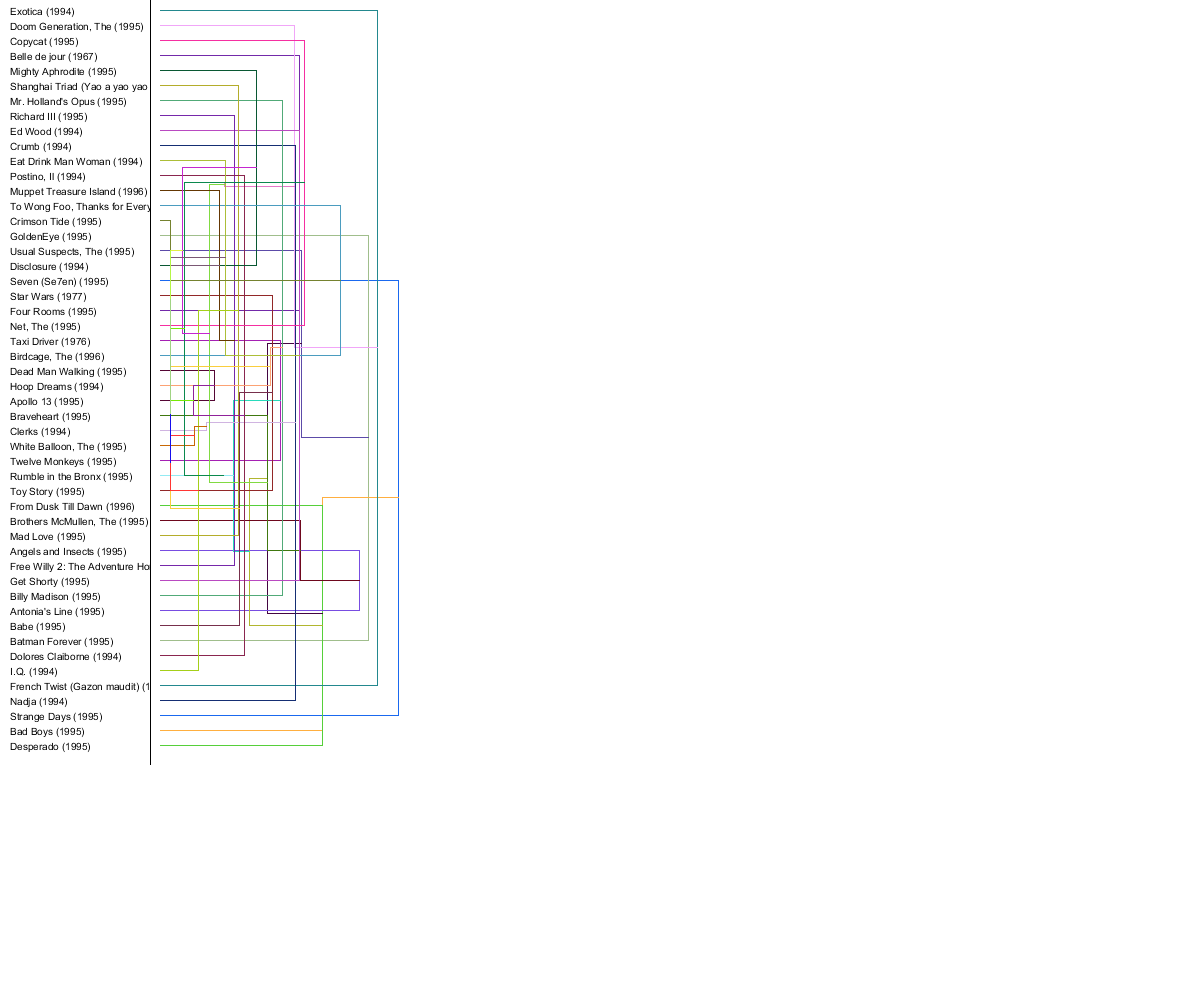
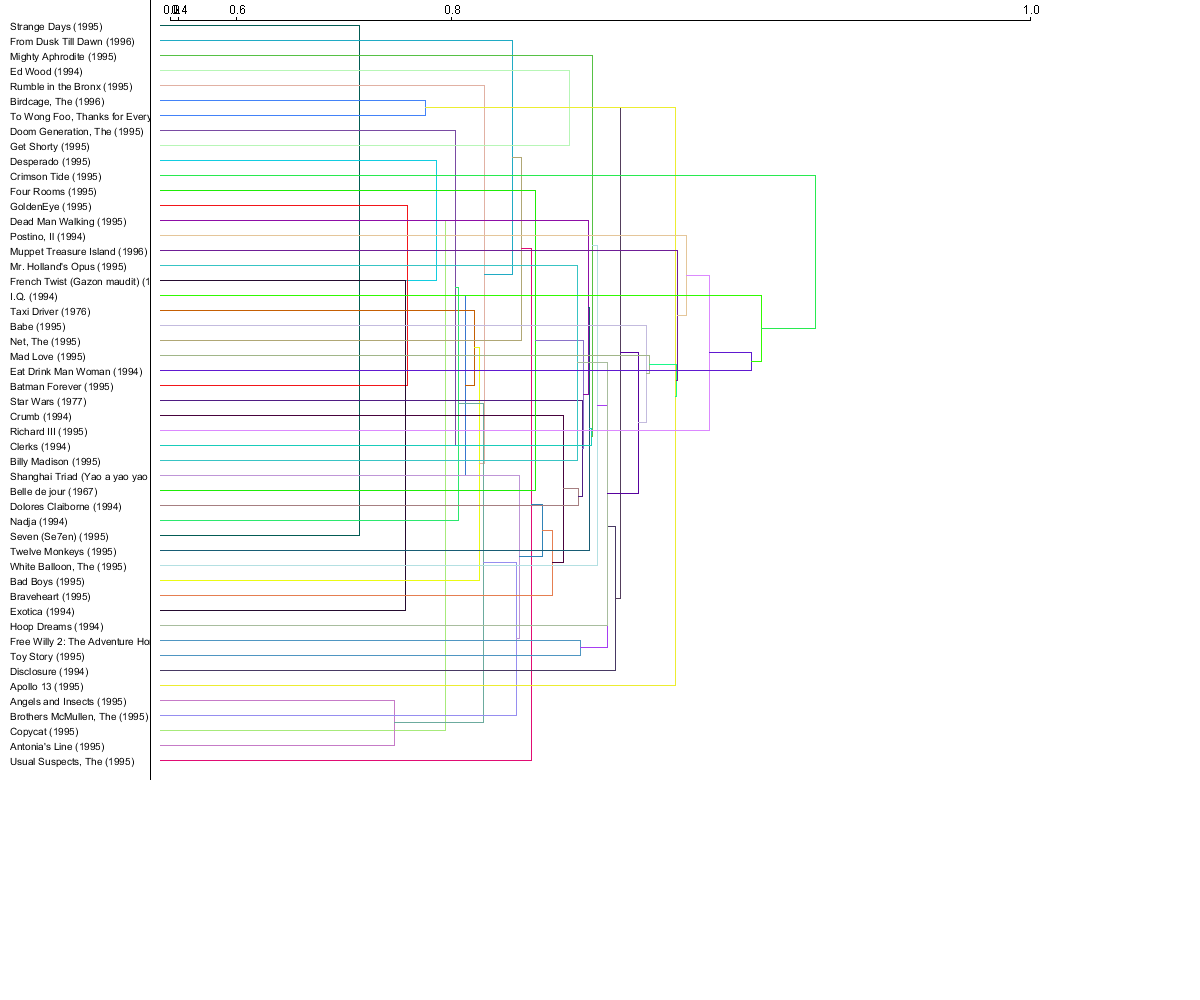
item keyword filter

diff --git a/clustering/src/org/clustering/data/DataUtil.java b/clustering/src/org/clustering/data/DataUtil.java
@@ -35,14 +35,14 @@ public class DataUtil {
 		fileUtil.readInput("data/keywords.txt");
 		items = fileUtil.getItems();
 		items = items.subList(0, 50);
-		filter(items);
 		allKeywords = fileUtil.getAllKeywords();
 		uniqueKeywords = fileUtil.getUniqueKeywords();
 		nonUniqueKeywords = getNonUniqueKeywords();
+		Set<String> atLeast5TimesKeywords = getAtLeastNTimesKeywords(5);
 		System.out.println(String.format("%d out of %d keywords are unique.",
 				uniqueKeywords.size(), allKeywords.size()));
+		filter(items, atLeast5TimesKeywords);
 
-		Set<String> atLeast4TimesKeywords = getAtLeastNTimesKeywords(4);
 		
 		// System.out.println("Starting Visualisation: " + new Date());
 		// new VisualisationUtil(nonUniqueKeywords,
@@ -51,7 +51,7 @@ public class DataUtil {
 		
 		if (calcDistancesNew) {
 			System.out.println("Starting calcDistance: " + new Date());
-			calcDistances(items, nonUniqueKeywords);
+			calcDistances(items, atLeast5TimesKeywords);
 			persistDisatnces("results/distances.csv");
 			System.out.println("End calcDistance: " + new Date());
 		} else {
@@ -118,7 +118,13 @@ public class DataUtil {
 		bufferedWriter.close();
 	}
 
-	private void filter(List<Item> items) {
+	private void filter(List<Item> items, Set<String> keywords) {
+		//reduce dataset dimension (remove keywords from items that are not element of target keywords set)
+		for(Item item : items){
+			item.retainKeywords(keywords);
+		}
+		
+		//remove items that do not have any keywords (must happen after reducing the filters)
 		Iterator<Item> iterator = items.iterator();
 		while (iterator.hasNext()) {
 			Item item = iterator.next();
@@ -126,6 +132,7 @@ public class DataUtil {
 				iterator.remove();
 			}
 		}
+		
 	}
 
 	/**

diff --git a/clustering/src/org/clustering/model/Item.java b/clustering/src/org/clustering/model/Item.java
@@ -3,6 +3,7 @@ package org.clustering.model;
 import java.io.Serializable;
 import java.util.HashMap;
 import java.util.HashSet;
+import java.util.Set;
 
 public class Item implements Serializable{
 	
@@ -33,6 +34,10 @@ public class Item implements Serializable{
 	public void addKeyword(String keyword) {
 		keywords.add(keyword);
 	}
+	
+	public void removeKeyword(String keyword){
+		keywords.remove(keyword);
+	}
 
 	
 
@@ -52,6 +57,14 @@ public class Item implements Serializable{
 	@Override
 	public String toString() {
 		return "Item "+itemNumber+" keywords: "+keywords.size();
+	}
+
+	/**
+	 * retains from this item's keywords, only those who are contained in the given parameter
+	 * @param keywords2
+	 */
+	public void retainKeywords(Set<String> allRetainingKeywords) {
+		keywords.retainAll(allRetainingKeywords);
 	}
 
 }
